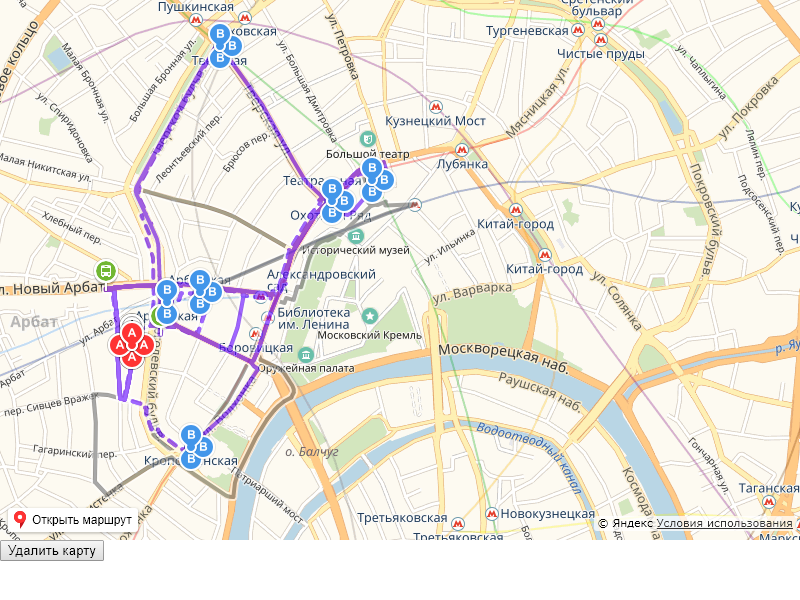
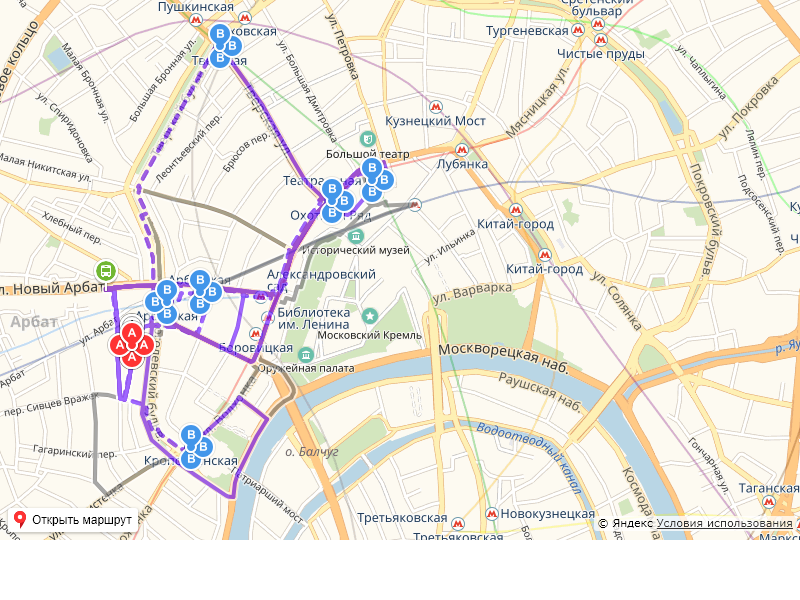
commit

diff --git a/index.js b/index.js
@@ -4,9 +4,11 @@ const axios = require('axios');
 (async () => {
     //долгота = lat
     //широта = lоt
-    let [lat, lon] = [37.598431, 55.749977]; //building_id
+    
+    let [lat, lon] = [37.094162, 55.945471]; //building_id
     let building_id = [lat, lon];
 
+    //let response = await axios.get(`https://geocode-maps.yandex.ru/1.x/?apikey=3eb0b0b4-b25d-42a9-92ad-9c04dbd2e172&geocode=${lat},${lon}&kind=metro&results=3&format=json`);
     let { data: { response: { GeoObjectCollection: { featureMember: metro = [] }}}} = await axios.get(`https://geocode-maps.yandex.ru/1.x/?apikey=3eb0b0b4-b25d-42a9-92ad-9c04dbd2e172&geocode=${lat},${lon}&kind=metro&results=3&format=json`);
 
     metro = metro.map(({ GeoObject: geo }) => {
@@ -38,9 +40,9 @@ const axios = require('axios');
 
     }, metro, building_id);
 
-    await page.screenshot({path: 'example.png'});
+    //await page.screenshot({path: 'example.png'});
 
-    //console.log(res);
+    console.log(res);
 
     await browser.close();
 })();

diff --git a/map.html b/map.html
@@ -3,7 +3,7 @@
 <html>
 <head>
     <meta http-equiv="Content-Type" content="text/html; charset=utf-8" />
-    <title>Создание и удаление</title>
+    
     <!--
         Укажите свой API-ключ. Тестовый ключ НЕ БУДЕТ работать на других сайтах.
         Получить ключ можно в Кабинете разработчика: https://developer.tech.yandex.ru/keys/
@@ -197,9 +197,6 @@
 
 <body>
     <div id="map"></div>
-    <div id="info"></div>
-
-    <input type="button" id="destroyButton" value="Удалить карту"/>
 </body>
 
 </html>
